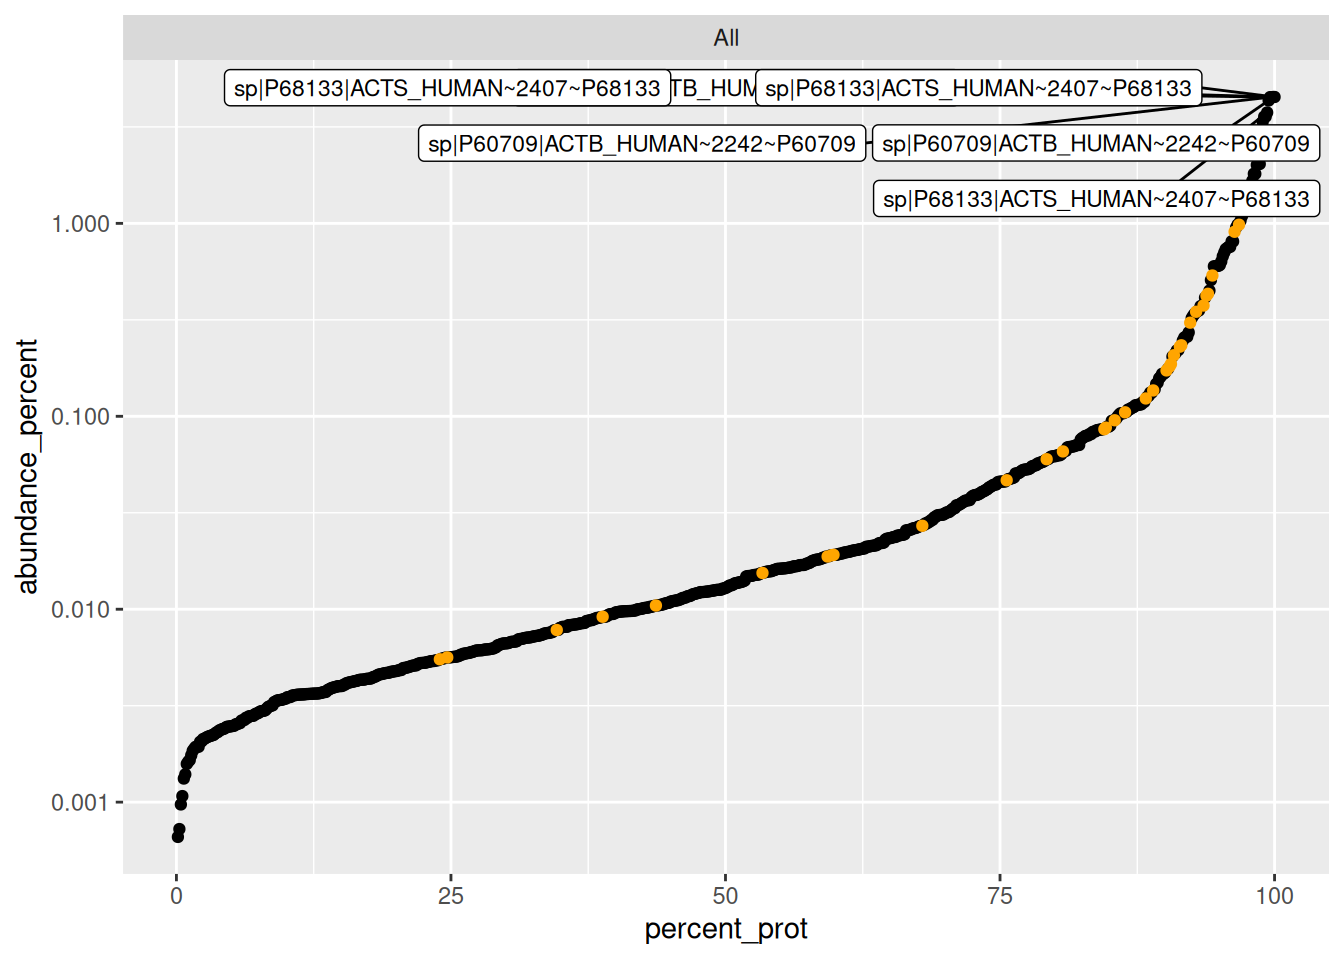
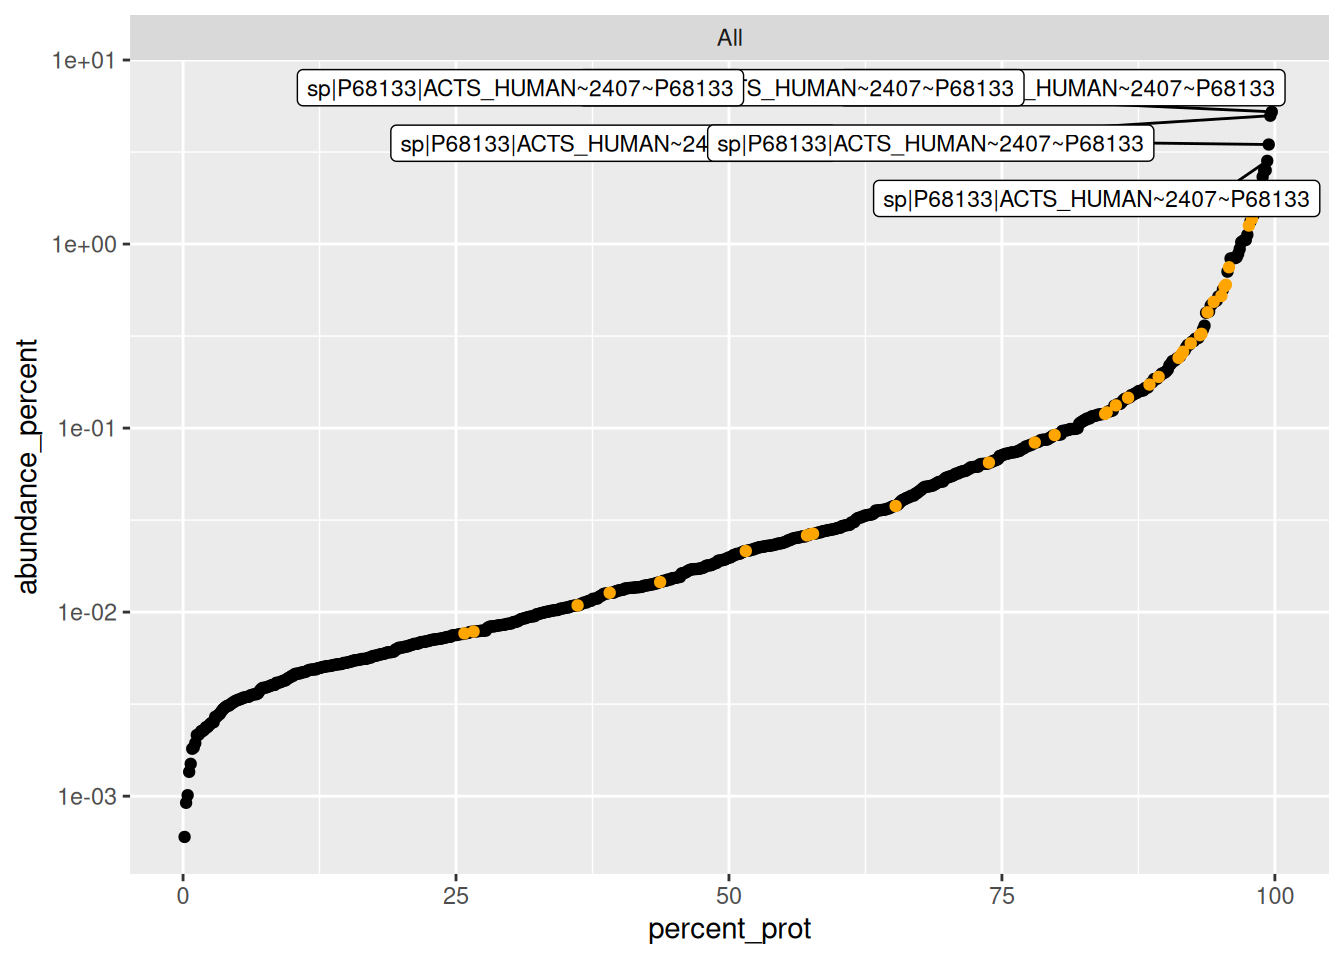
Deploying to gh-pages from @ prolfqua/prolfquapp@c072e98e7d7084e6f9dbd8623adc9259fd55a9f6 🚀

diff --git a/NEWS.html b/NEWS.html
@@ -867,9 +867,11 @@ ul.task-list li input[type="checkbox"] {
 
 
 
-<section id="prolfquapp-2.4.2" class="level1">
-<h1>prolfquapp 2.4.2</h1>
+<section id="prolfquapp-2.5.0" class="level1">
+<h1>prolfquapp 2.5.0</h1>
 <ul>
+<li>Docker releases now derive their build mode from the semantic version: <code>X.Y.0</code> tags run the full multi-architecture build and runtime checks, while later <code>X.Y.Z</code> patch tags update the packages declared in <code>Remotes</code> and rebuild prolfquapp on the matching <code>X.Y.0</code> image. An urgent patch release fails if that full base image is unavailable or if the Docker environment or package dependencies changed since <code>X.Y.0</code>.</li>
+<li>Docker builds now use Posit’s Ubuntu Noble R base image and native Posit Package Manager binaries on AMD64 and ARM64, avoiding lengthy source compilation while retaining Arrow’s zstd support.</li>
 <li>Docker images are now published to the GitHub Container Registry (<code>ghcr.io/prolfqua/prolfquapp</code>) instead of Docker Hub. Images from earlier versions remain available on Docker Hub; new releases are published to GHCR.</li>
 </ul>
 </section>

diff --git a/CITATION.html b/CITATION.html
@@ -871,7 +871,7 @@ ul.task-list li input[type="checkbox"] {
 <h1>Citation</h1>
 <p>To cite package ‘prolfquapp’ in publications use:</p>
 <p>
-Wolski W, Schwarz L (????). <em>prolfquapp: Generating Dynamic DEA Reports with the prolfqua R Package</em>. R package version 2.4.2, <a href="https://prolfqua.github.io/prolfquapp/">https://prolfqua.github.io/prolfquapp/</a>.
+Wolski W, Schwarz L (????). <em>prolfquapp: Generating Dynamic DEA Reports with the prolfqua R Package</em>. R package version 2.5.0, <a href="https://prolfqua.github.io/prolfquapp/">https://prolfqua.github.io/prolfquapp/</a>.
 </p>
 
 